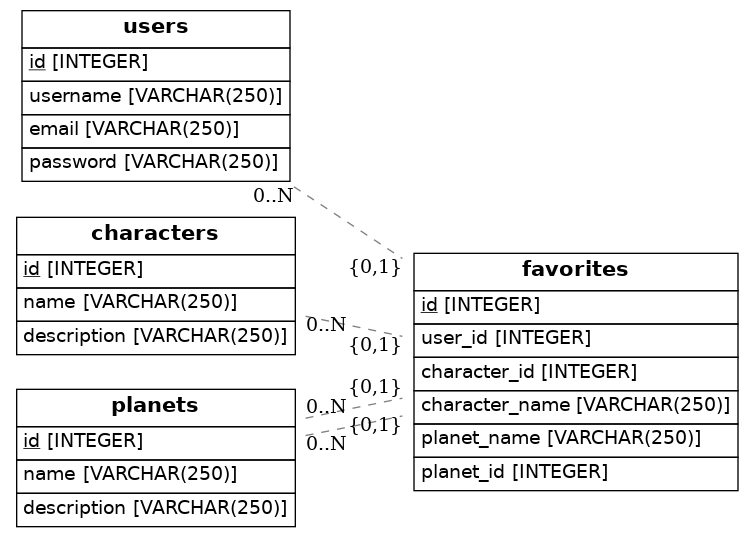
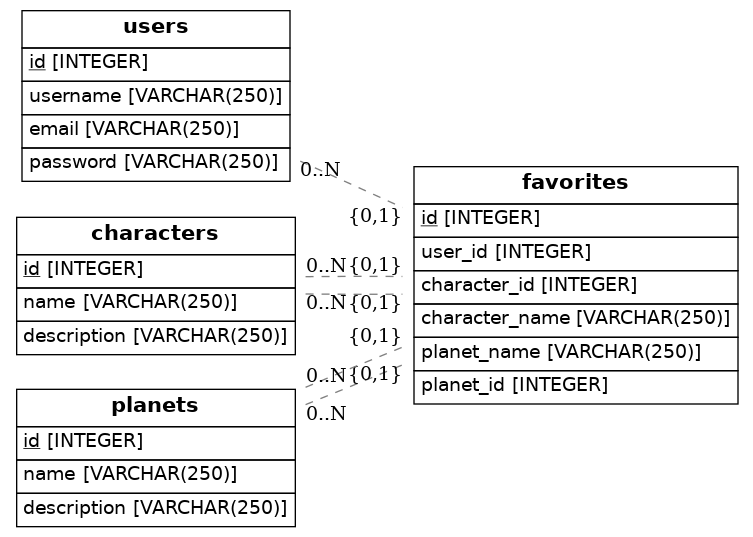
avance

Changed region(s): [[0.3971, 0.298, 1.0, 0.9236], [0.336, 0.3277, 0.3971, 0.3873], [0.3971, 0.298, 0.4582, 0.3277]]

diff --git a/src/models.py b/src/models.py
@@ -15,16 +15,6 @@ class Users(Base):
     email = Column(String(250), nullable=False)
     password = Column(String(250),nullable=False)
 
-    
-class Favorites(Base):
-    __tablename__ = 'favorites'
-    id = Column(Integer, primary_key=True)
-    user_id = Column(Integer, ForeignKey('users.id'))
-    character_id = Column(Integer, ForeignKey('charachters.id'))
-    character_name = Column(String(250), ForeignKey('characters.name'))
-    planet_name = Column(String(250), ForeignKey('planets.name'))
-    planet_id = Column(Integer, ForeignKey('planets.id'))
-    user = relationship(Users)
 
 class Characters(Base):
     __tablename__ = 'characters'
@@ -39,6 +29,18 @@ class Planets(Base):
     id = Column(Integer, primary_key=True)
     name = Column(String(250),nullable=False)
     description = Column(String(250),nullable=False)
+
+class Favorites(Base):
+    __tablename__ = 'favorites'
+    id = Column(Integer, primary_key=True)
+    user_id = Column(Integer, ForeignKey('users.id'))
+    character_id = Column(Integer, ForeignKey('characters.id'))
+    character_name = Column(String(250), ForeignKey('characters.name'))
+    planet_name = Column(String(250), ForeignKey('planets.name'))
+    planet_id = Column(Integer, ForeignKey('planets.id'))
+    user = relationship(Users)
+    character = relationship(Characters)
+    planets = relationship(Planets)
     
 
     def to_dict(self):
